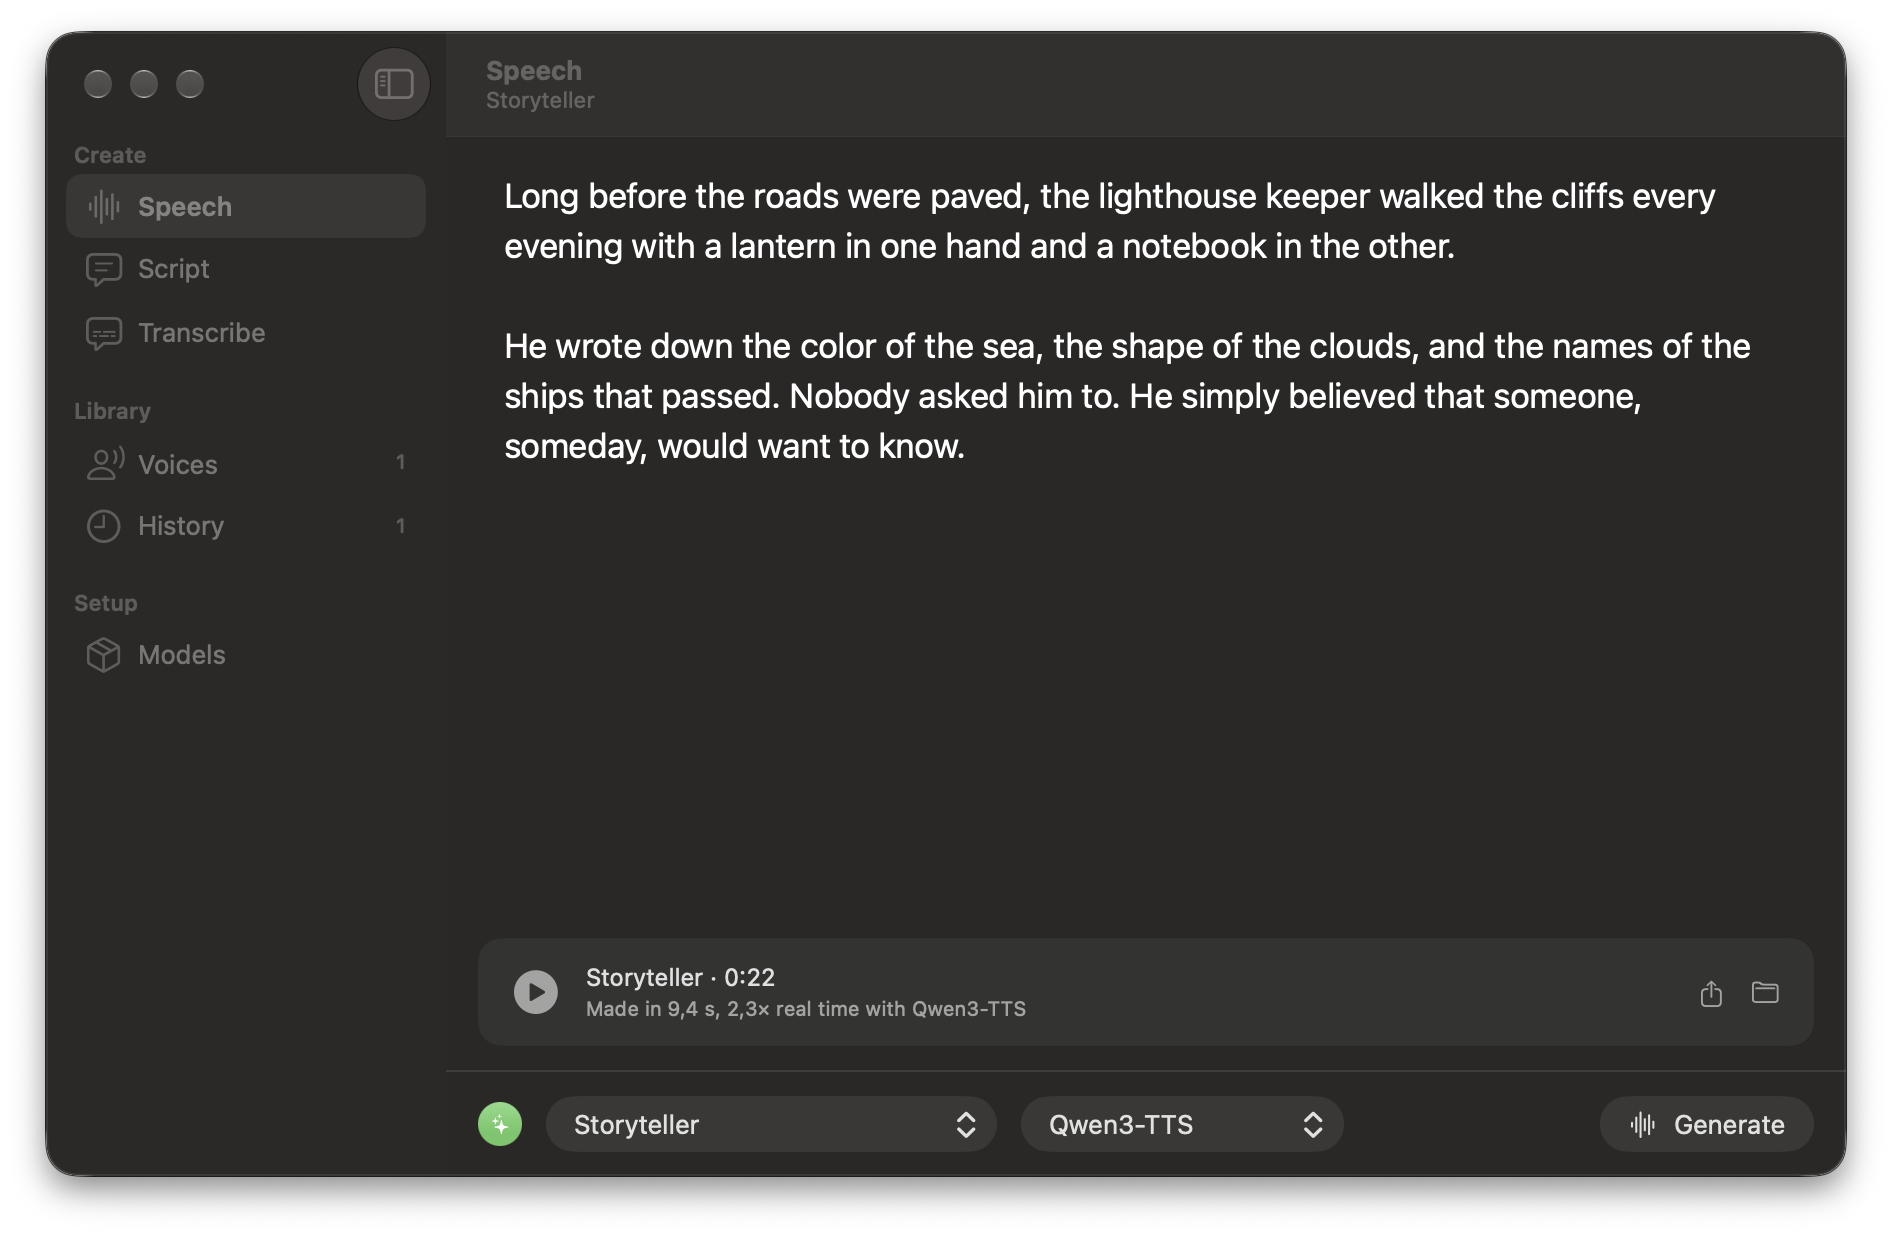
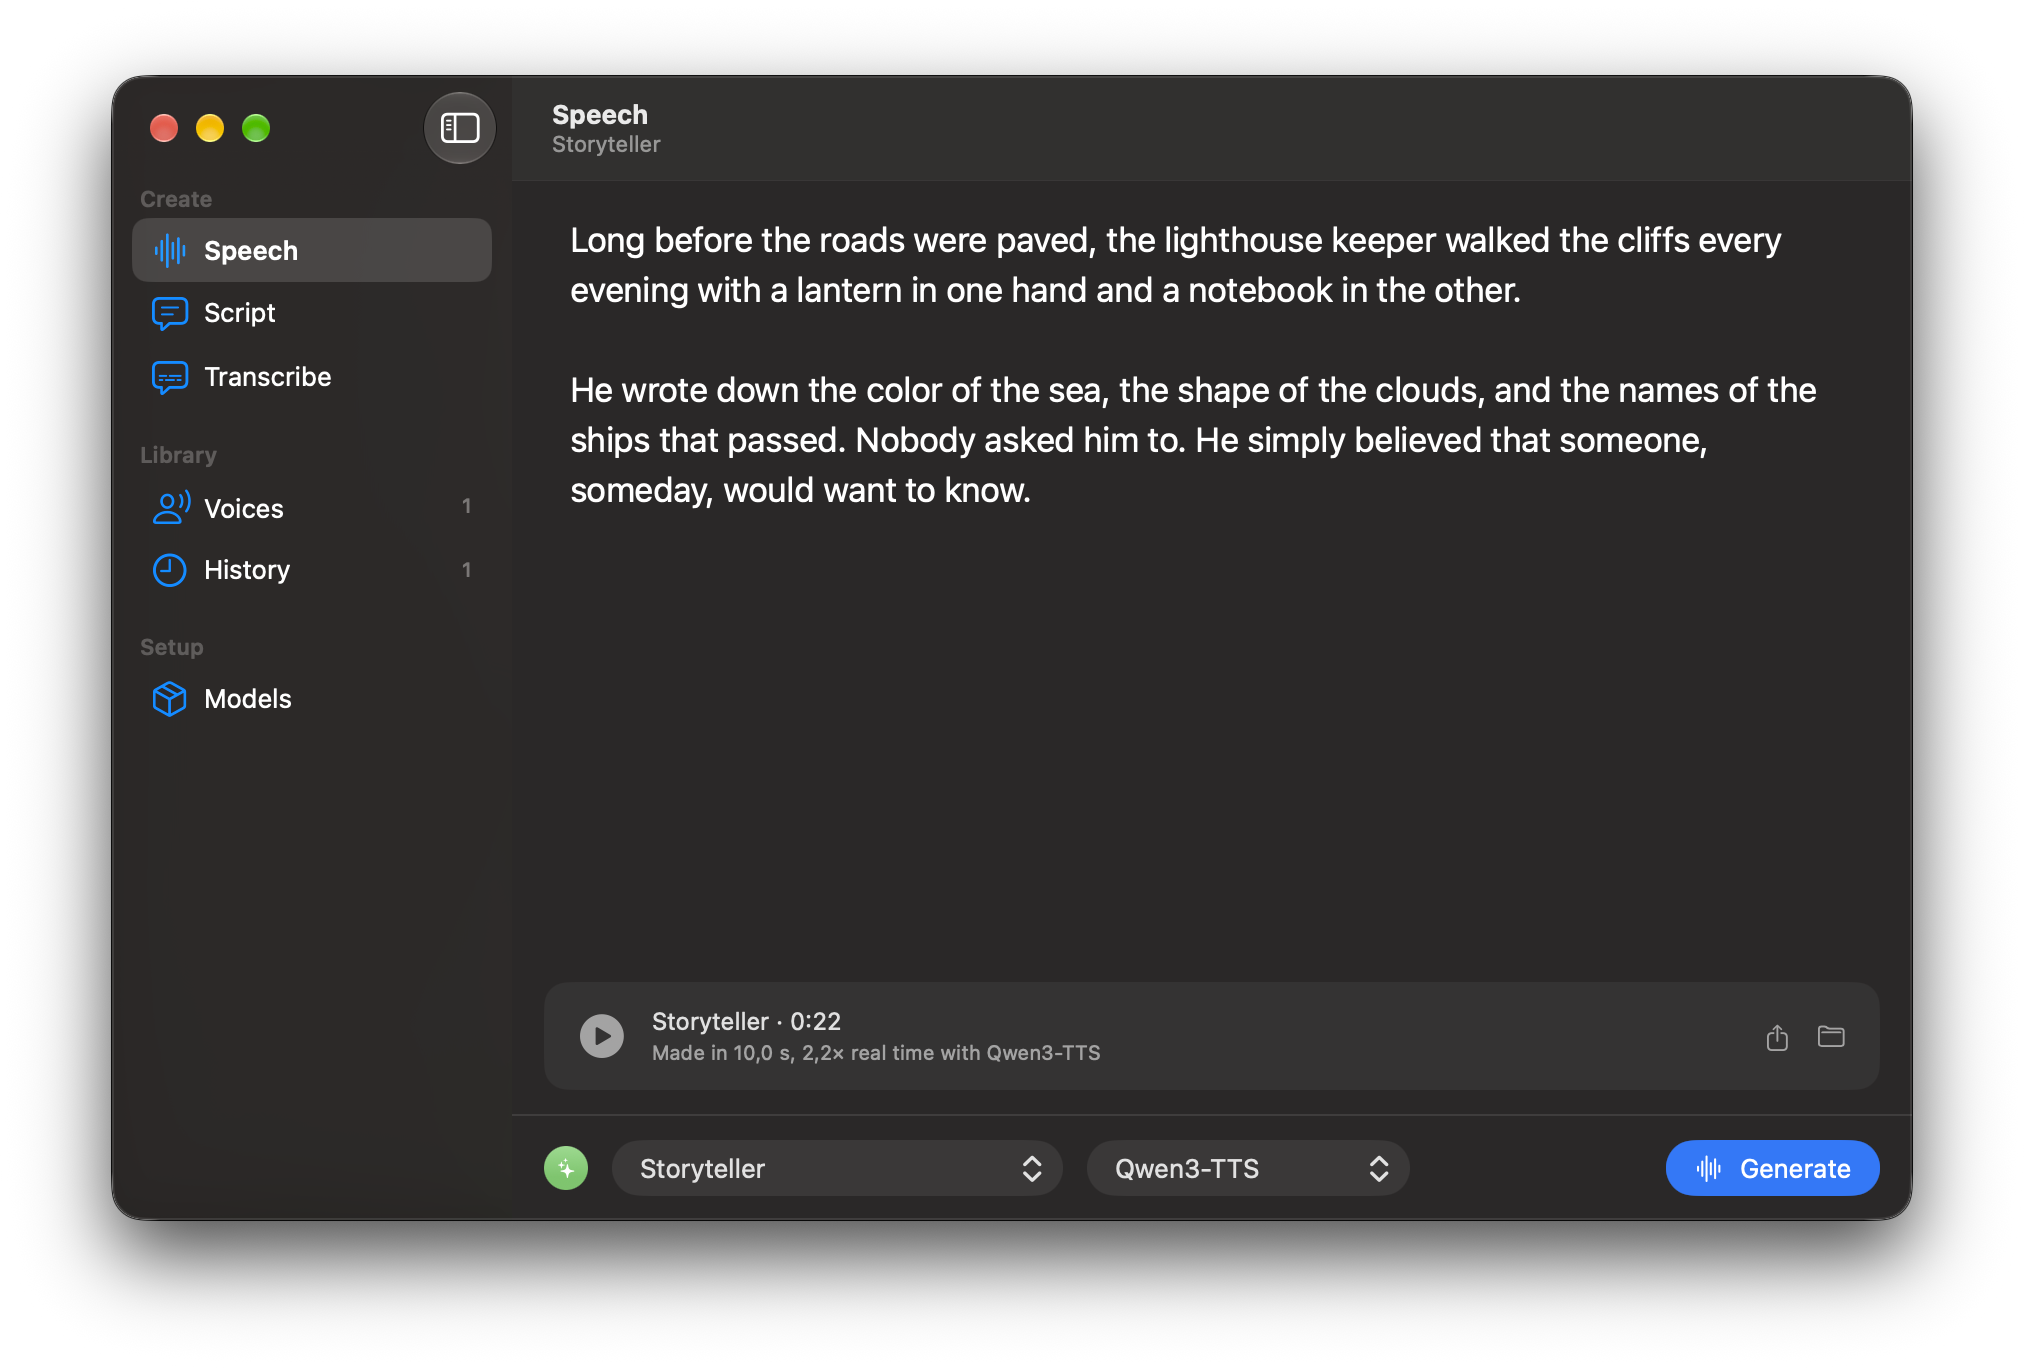
Update the README screenshot

diff --git a/Hypervoice/App/Snapshot.swift b/Hypervoice/App/Snapshot.swift
@@ -23,8 +23,17 @@ enum Snapshot {
                 while Generator.shared.isGenerating { try? await Task.sleep(for: .milliseconds(200)) }
                 if let error = Generator.shared.error { try? error.write(toFile: folder + "/error.txt", atomically: true, encoding: .utf8) }
             }
+            // Time to bring the window to the front from outside, since a background launch can't take focus.
+            if let delay = environment["HYPERVOICE_CAPTURE_DELAY"].flatMap(Double.init) {
+                try? await Task.sleep(for: .seconds(delay))
+            }
             for pane in panes {
                 studio.section = pane
+                if let window = NSApp.windows.first(where: { $0.isVisible && $0.frame.width > 400 }) {
+                    window.makeKeyAndOrderFront(nil)
+                    // No text cursor, and no stray keystrokes landing in the editor.
+                    window.makeFirstResponder(nil)
+                }
                 try? await Task.sleep(for: .seconds(1.5))
                 save(to: URL(fileURLWithPath: folder).appending(path: "\(pane.rawValue).png"))
             }
